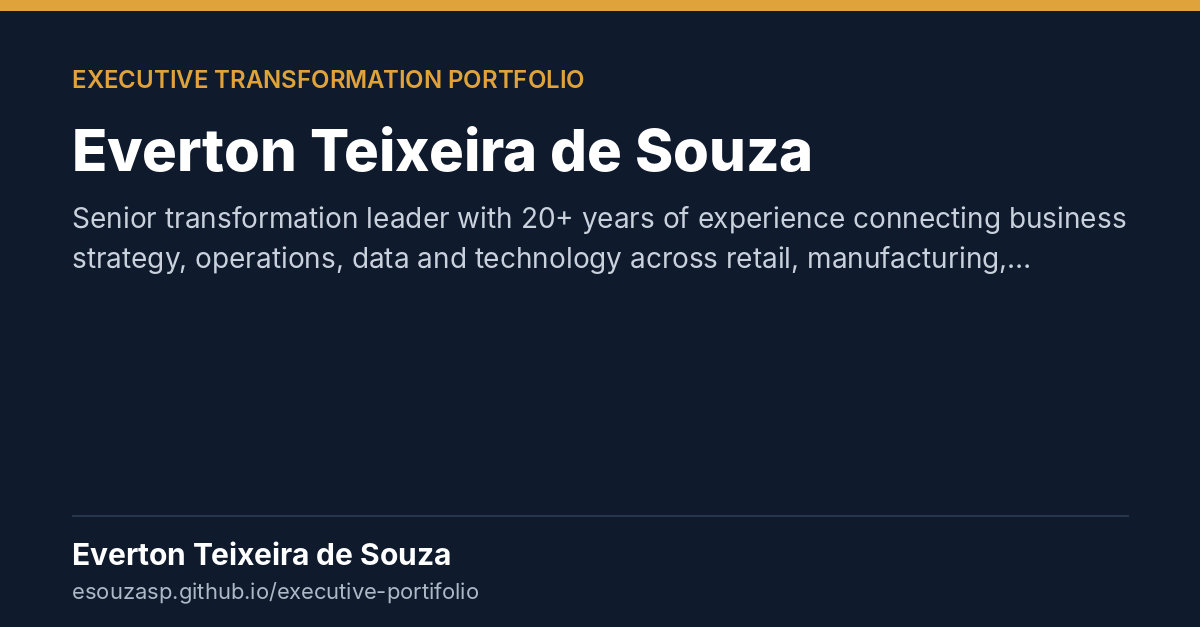
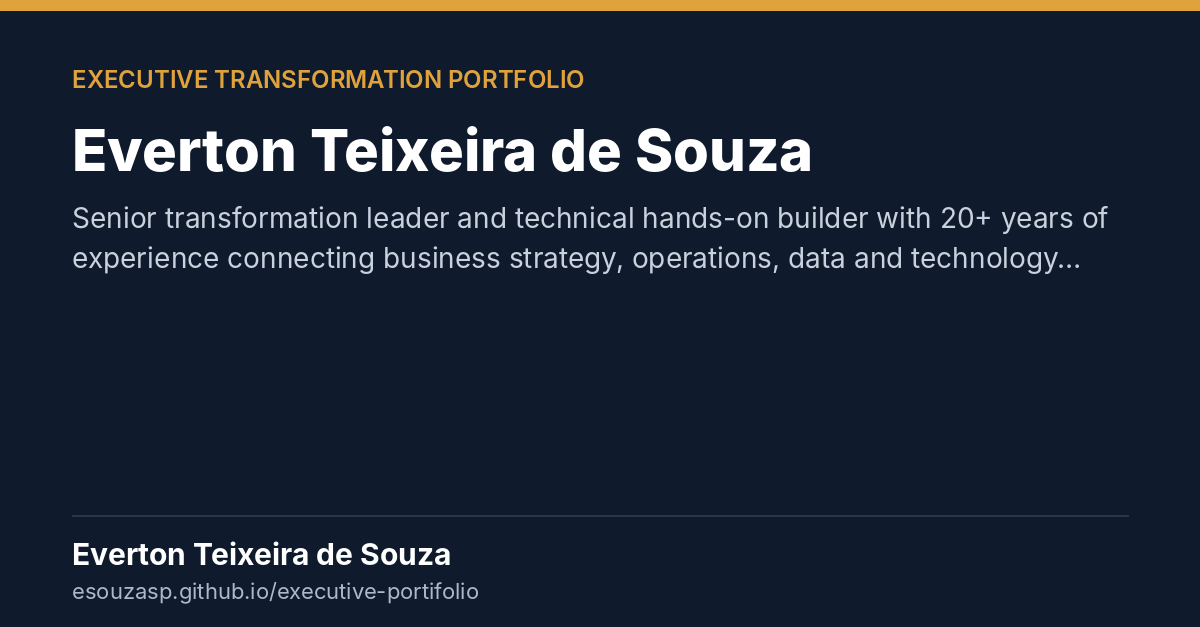
Summary: add technical hands-on builder
Claude-Session: https://claude.ai/code/session_01GqHwpDkRMmJzvmztvfNFAY

Changed region(s): [[0.0617, 0.3939, 0.8942, 0.4545], [0.37, 0.3333, 0.9558, 0.3636]]

diff --git a/data.js b/data.js
@@ -24,7 +24,7 @@ window.PORTFOLIO = {
   },
   ui: {
     eyebrow: {"en":"Executive Transformation Portfolio","pt":"Portfólio Executivo de Transformação","es":"Portafolio Ejecutivo de Transformación"},
-    summary: {"en":"Senior transformation leader with 20+ years of experience connecting business strategy, operations, data and technology across retail, manufacturing, logistics and supply chain environments — combining business engineering, solutions architecture and AI-native engineering. This portfolio presents selected programs in AI, analytics, enterprise platforms, planning, optimization and governance, delivering measurable operational and business outcomes at scale.","pt":"Líder sênior de transformação com mais de 20 anos de experiência conectando estratégia de negócio, operações, dados e tecnologia em ambientes de varejo, manufatura, logística e supply chain — combinando engenharia de negócios, arquitetura de soluções e engenharia AI-native. Este portfólio apresenta programas selecionados em IA, analytics, plataformas corporativas, planejamento, otimização e governança, com resultados operacionais e de negócio mensuráveis em escala.","es":"Líder sénior de transformación con más de 20 años de experiencia conectando estrategia de negocio, operaciones, datos y tecnología en entornos de retail, manufactura, logística y supply chain — combinando ingeniería de negocios, arquitectura de soluciones e ingeniería AI-native. Este portafolio presenta programas seleccionados en IA, analytics, plataformas corporativas, planificación, optimización y gobernanza, con resultados operativos y de negocio medibles a escala."},
+    summary: {"en":"Senior transformation leader and technical hands-on builder with 20+ years of experience connecting business strategy, operations, data and technology across retail, manufacturing, logistics and supply chain environments — combining business engineering, solutions architecture and AI-native engineering. This portfolio presents selected programs in AI, analytics, enterprise platforms, planning, optimization and governance, delivering measurable operational and business outcomes at scale.","pt":"Líder sênior de transformação e builder técnico hands-on, com mais de 20 anos de experiência conectando estratégia de negócio, operações, dados e tecnologia em ambientes de varejo, manufatura, logística e supply chain — combinando engenharia de negócios, arquitetura de soluções e engenharia AI-native. Este portfólio apresenta programas selecionados em IA, analytics, plataformas corporativas, planejamento, otimização e governança, com resultados operacionais e de negócio mensuráveis em escala.","es":"Líder sénior de transformación y builder técnico hands-on, con más de 20 años de experiencia conectando estrategia de negocio, operaciones, datos y tecnología en entornos de retail, manufactura, logística y supply chain — combinando ingeniería de negocios, arquitectura de soluciones e ingeniería AI-native. Este portafolio presenta programas seleccionados en IA, analytics, plataformas corporativas, planificación, optimización y gobernanza, con resultados operativos y de negocio medibles a escala."},
     legend: {"en":"Depth of expertise — three bars = core specialty","pt":"Profundidade de expertise — três barras = especialidade principal","es":"Profundidad de expertise — tres barras = especialidad principal"},
     all: {"en":"All","pt":"Todos","es":"Todos"},
     byArea: {"en":"Area","pt":"Área","es":"Área"},

diff --git a/index.html b/index.html
@@ -17,12 +17,12 @@
 <link rel="preconnect" href="https://fonts.googleapis.com">
 <link rel="preconnect" href="https://fonts.gstatic.com" crossorigin>
 <link href="https://fonts.googleapis.com/css2?family=Inter:wght@400;500;600&family=Manrope:wght@600;700;800&display=swap" rel="stylesheet">
-<link rel="stylesheet" href="styles.css?v=20261125-1000">
+<link rel="stylesheet" href="styles.css?v=20261125-1100">
 </head>
 <body>
 <div id="app"></div>
 <noscript>This portfolio needs JavaScript enabled.</noscript>
-<script src="data.js?v=20261125-1000"></script>
-<script src="app.js?v=20261125-1000"></script>
+<script src="data.js?v=20261125-1100"></script>
+<script src="app.js?v=20261125-1100"></script>
 </body>
 </html>
